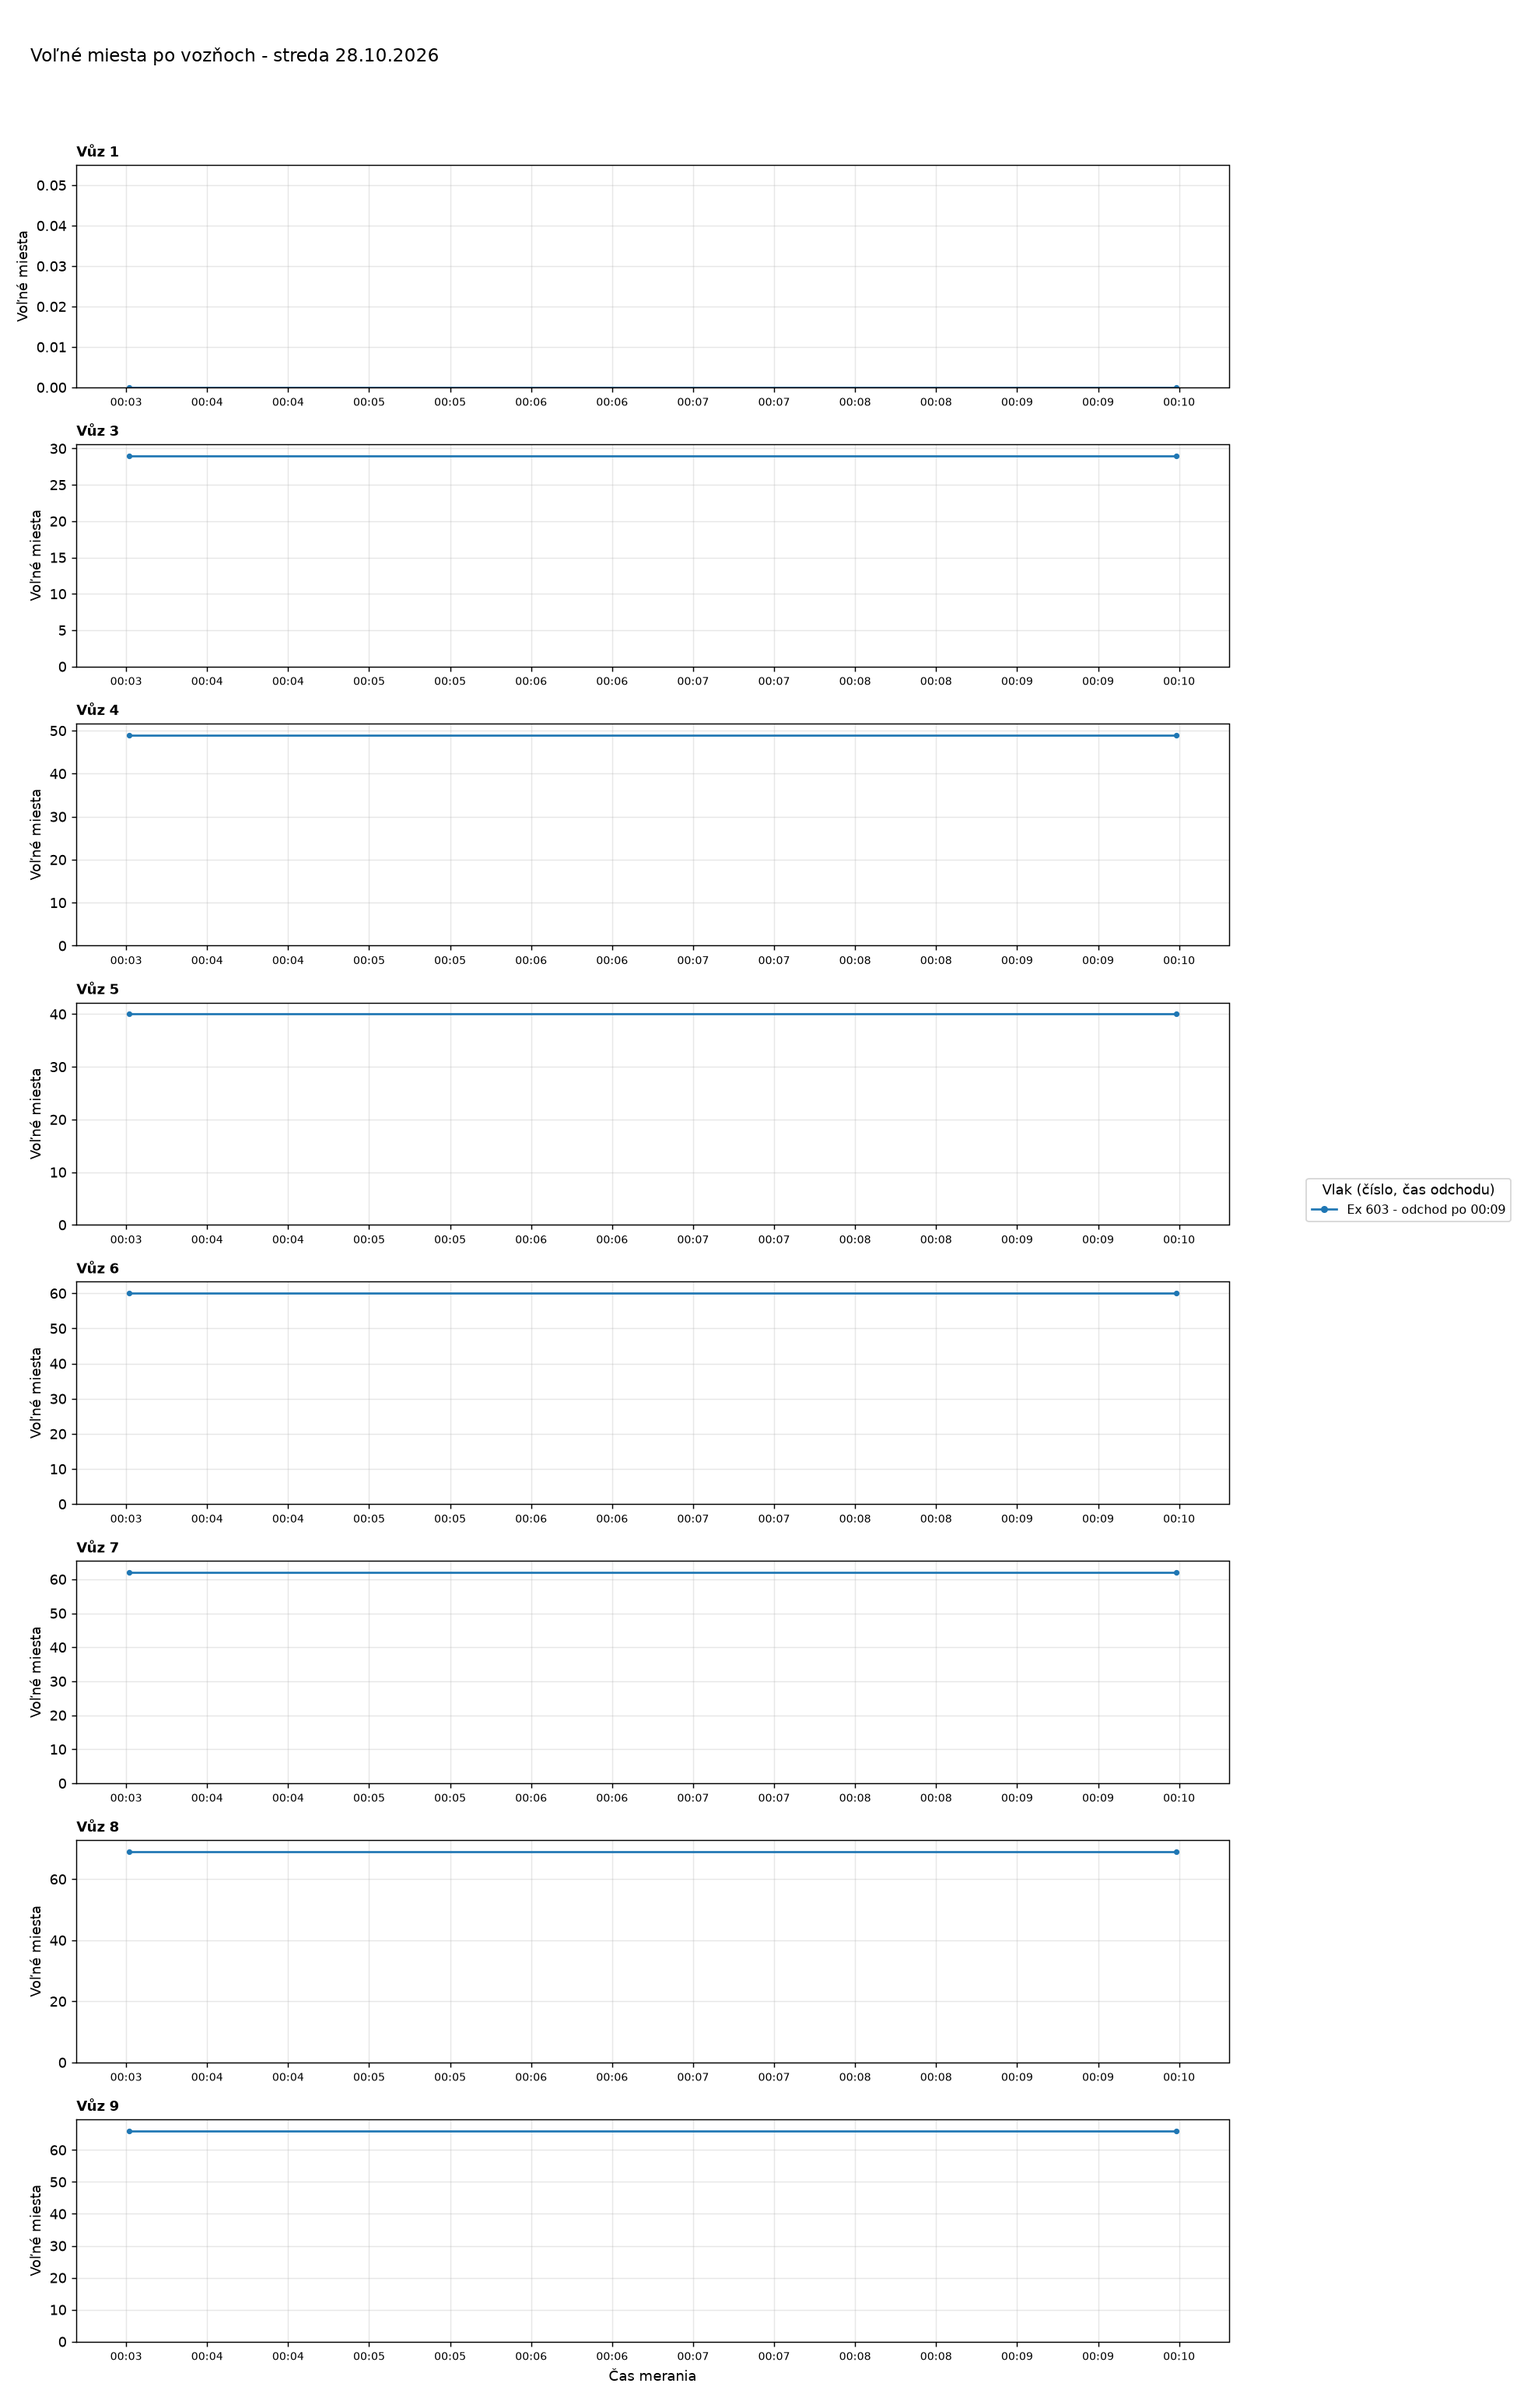
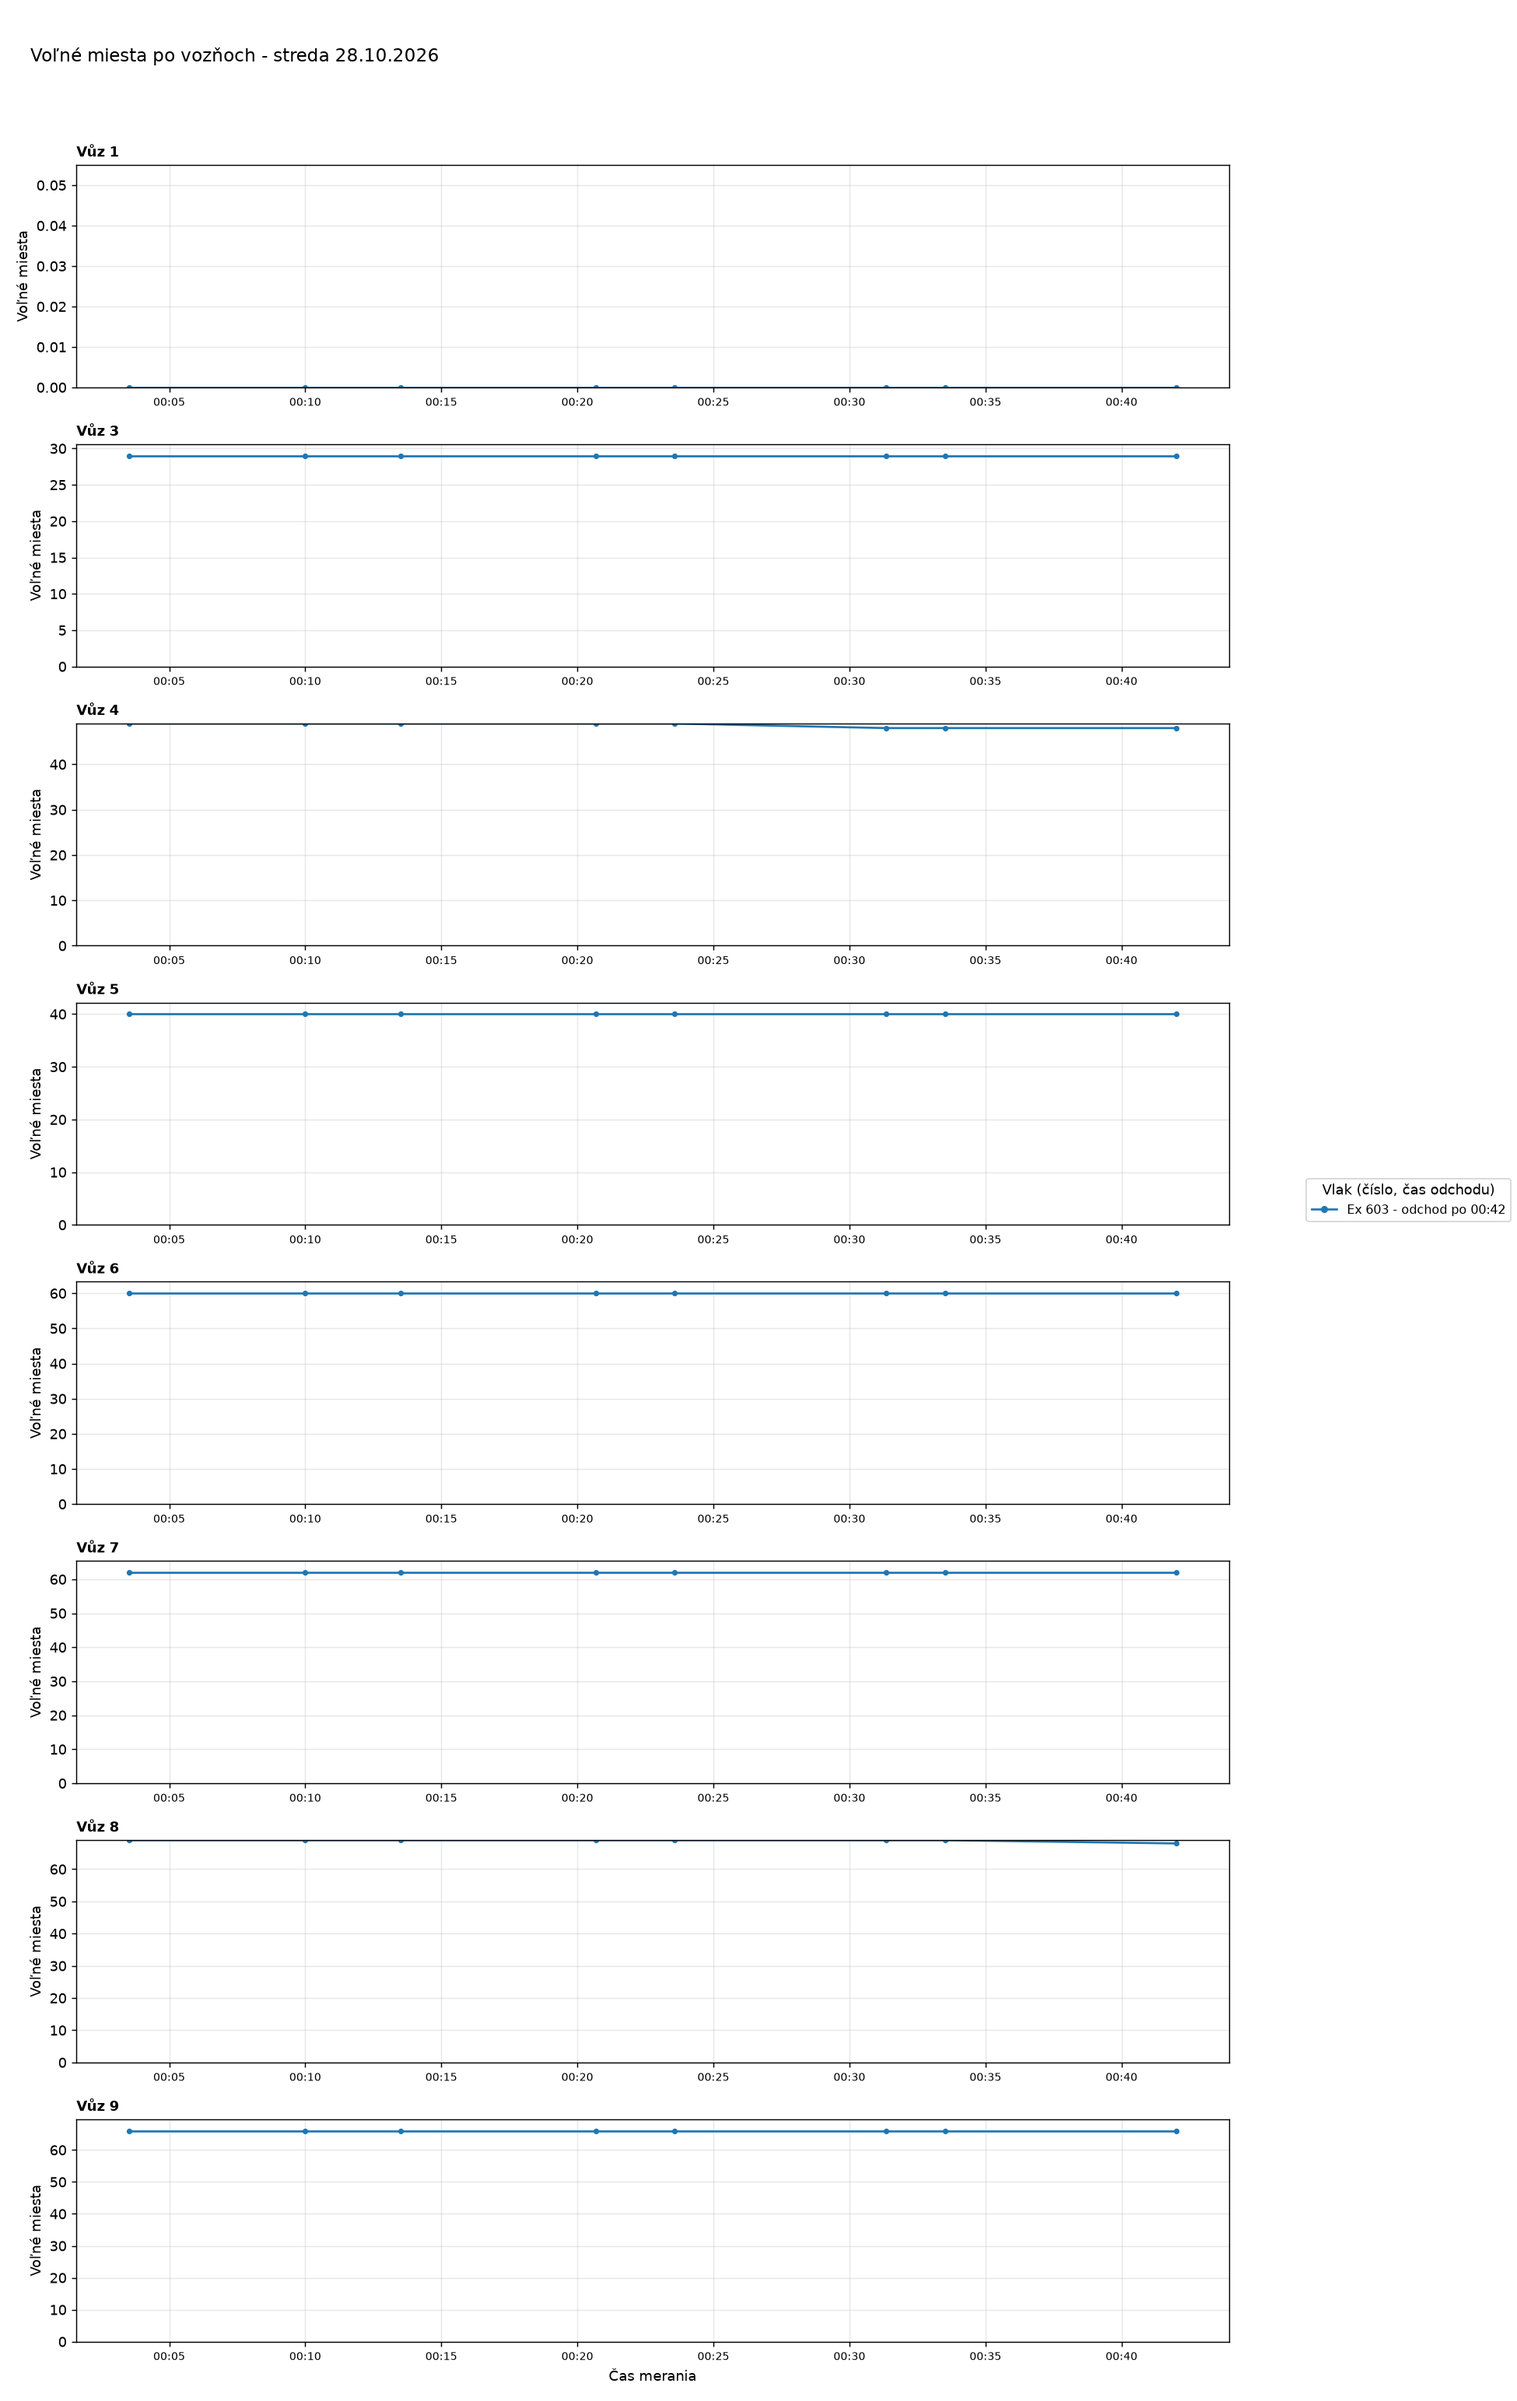
Aktualizácia grafov 2026-10-28 00:43

diff --git a/index.html b/index.html
@@ -35,7 +35,7 @@ h2.oddiel{margin:36px 0 0;font-size:1.4rem}
 <body>
 <main>
 <h1>Voľné miesta vo vlakoch</h1>
-<p class="muted">Posledné meranie: 28.10.2026 00:09 ·
+<p class="muted">Posledné meranie: 28.10.2026 00:42 ·
 <a href="data/obsadenost_data.csv">stiahnuť dáta (CSV)</a></p>
 <nav class="nav"><a href="#suhrn">Súhrn</a><a href="#statistiky">Štatistiky</a><a href="#historia">História grafov</a></nav>
 
@@ -44,7 +44,7 @@ h2.oddiel{margin:36px 0 0;font-size:1.4rem}
 <div class="tablewrap"><table>
 <thead><tr><th>Deň</th><th>Meraní</th><th>Vlakov</th><th>Čas meraní</th></tr></thead>
 <tbody>
-<tr><td><a href="#d2026-10-28">streda 28.10.2026</a></td><td>2</td><td>1</td><td>00:03-00:09</td></tr>
+<tr><td><a href="#d2026-10-28">streda 28.10.2026</a></td><td>8</td><td>1</td><td>00:03-00:42</td></tr>
 <tr><td><a href="#d2026-10-27">utorok 27.10.2026</a></td><td>99</td><td>11</td><td>00:01-23:59</td></tr>
 <tr><td><a href="#d2026-10-26">pondelok 26.10.2026</a></td><td>88</td><td>14</td><td>00:06-23:50</td></tr>
 <tr><td><a href="#d2026-10-25">nedeľa 25.10.2026</a></td><td>101</td><td>15</td><td>00:01-23:56</td></tr>
